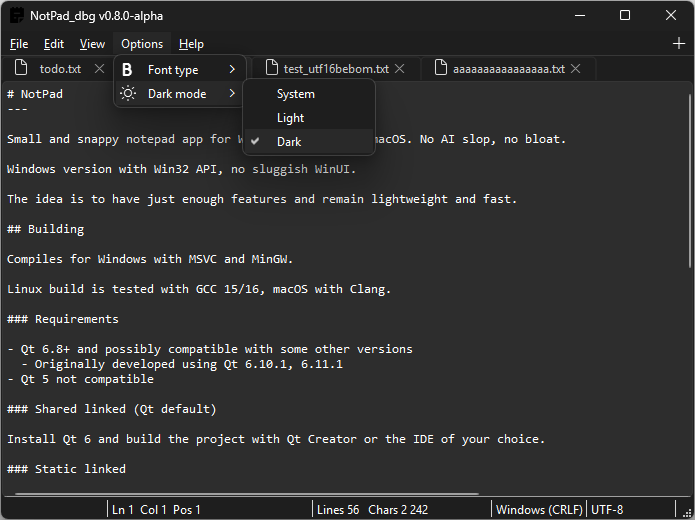
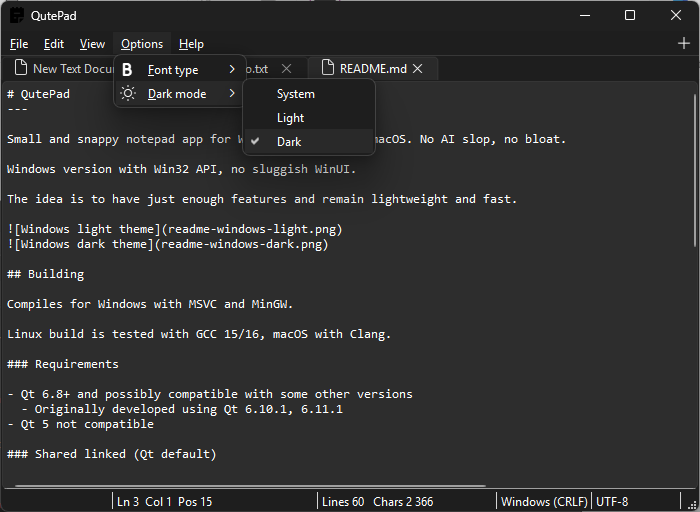
Update readme and screenshots

diff --git a/README.md b/README.md
@@ -19,7 +19,7 @@ Linux build is tested with GCC 15/16, macOS with Clang.
 ### Requirements
 
 - Qt 6.8+ and possibly compatible with some other versions
-  - Originally developed using Qt 6.10.1, 6.11.1
+  - Originally developed using Qt 6.10.1, 6.11.1, 6.12.0
 - Qt 5 not compatible
 
 ### Shared linked (Qt default)
@@ -34,6 +34,7 @@ You need to build Qt from sources first. Static libraries are not provided by Qt
   - For example with MSVC:
     - Launch your Qt command line from the provided shortcut e.g. Qt 6.10.1 (MSVC 2022 64-bit)
     - Run vcvarsall.bat that is located in e.g. C:\Program Files\Microsoft Visual Studio\18\Community\VC\Auxiliary\Build\vcvarsall.bat
+      - `vcvarsall.bat x64`
 - Configure the build
   - `cd /path/to/Qt/6.10.1` (sources would be located in /path/to/Qt/6.10.1/Src)
   - `mkdir build`
